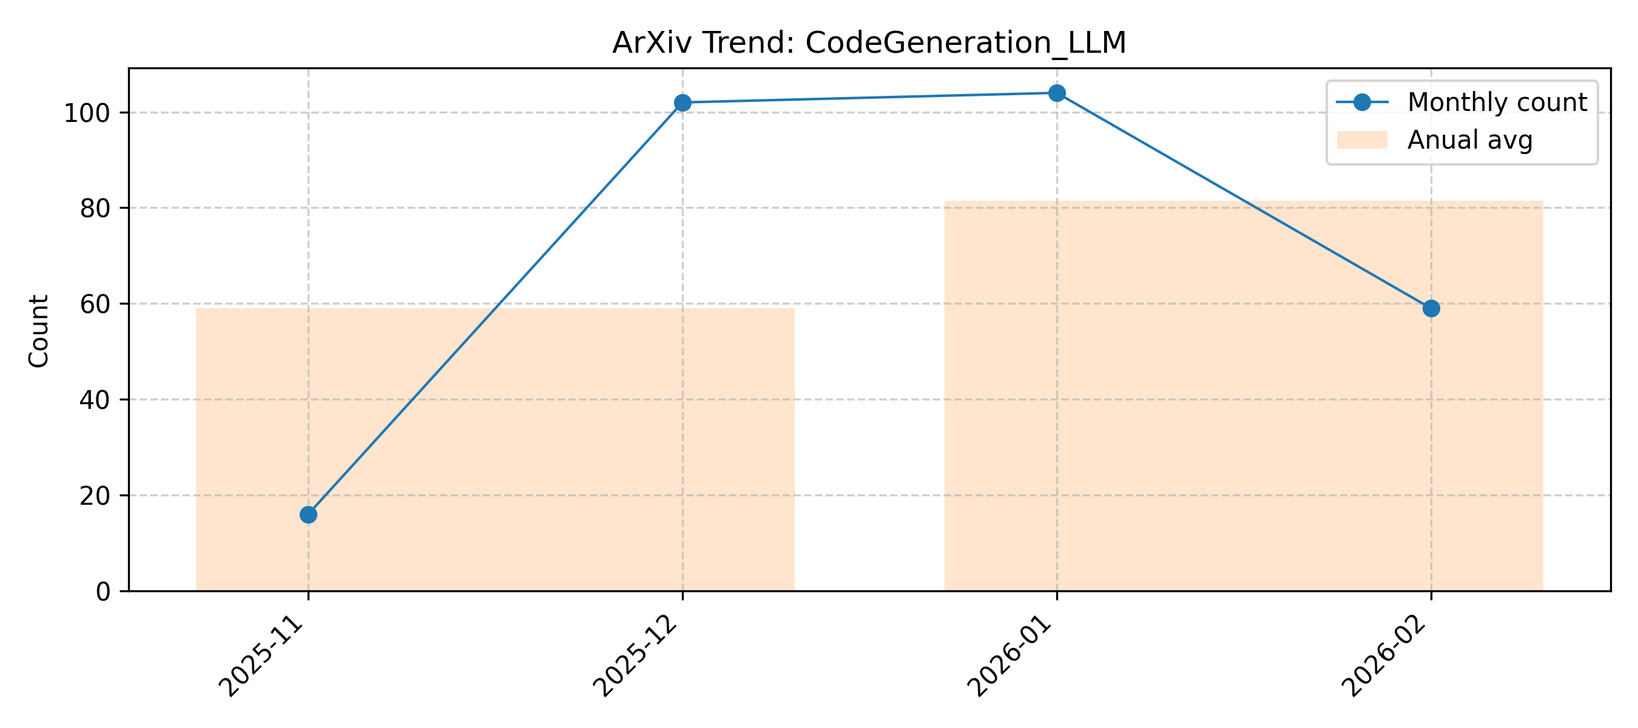
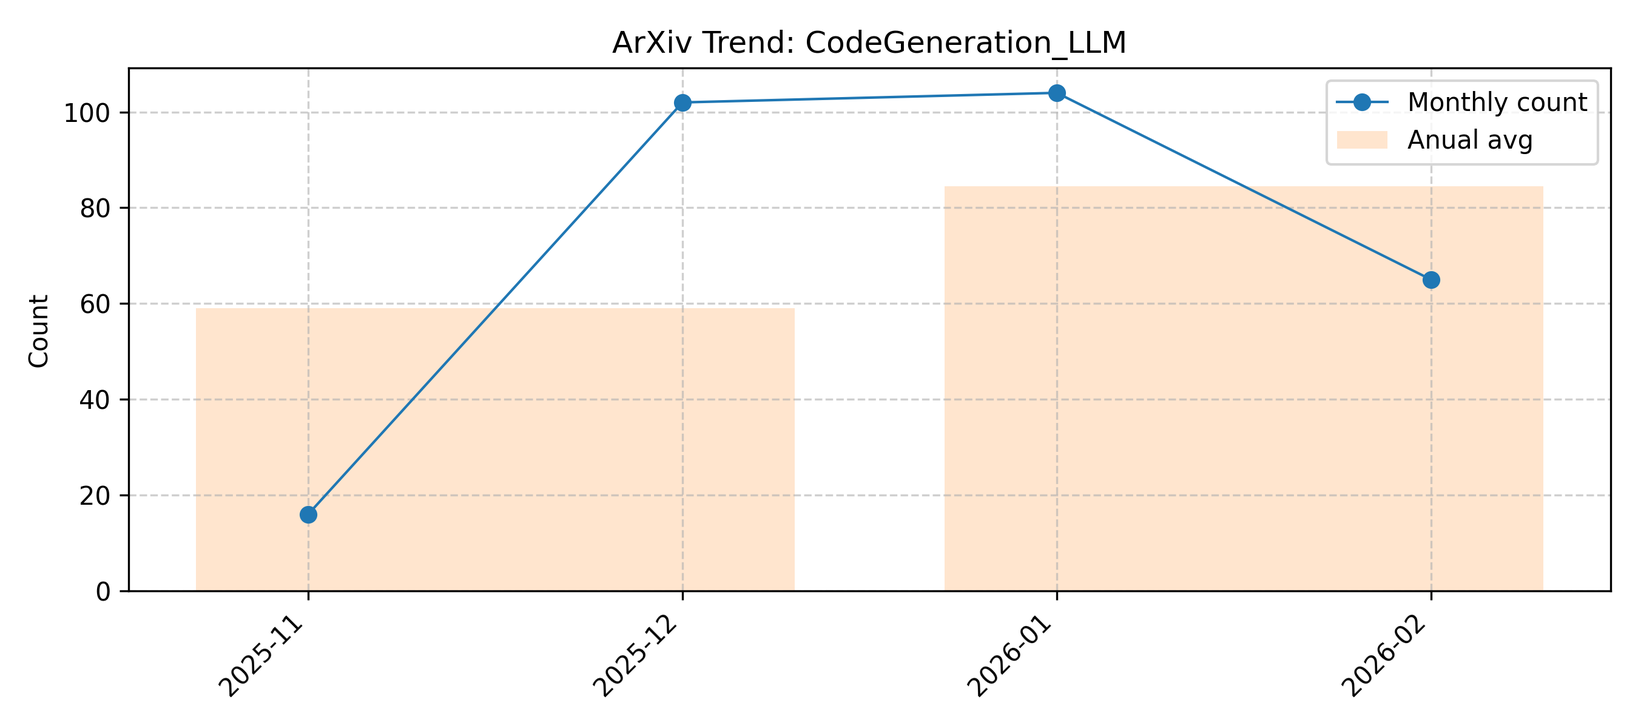
Auto update: 2026-02-14 08:00:01

Changed region(s): [[0.56, 0.2158, 0.9644, 0.4317], [0.6844, 0.185, 0.7156, 0.2158], [0.6533, 0.1542, 0.6844, 0.185]]

diff --git a/CodeGeneration_LLM.md b/CodeGeneration_LLM.md
@@ -1,6 +1,6 @@
 # CodeGeneration_LLM
 
-> Updated on 2026.02.13
+> Updated on 2026.02.14
 
 [🔙 Back to Index](README.md)
 
@@ -8,9 +8,15 @@
 
 | Date | Title | Categories | Abstract | PDF | Code |
 |:---|:---|:---|:---|:---|:---|
+|**2026-02-12**|**Improving HPC Code Generation Capability of LLMs via Online Reinforcement Learning with Real-Machine Benchmark Rewards**|cs.LG| <details><summary>Full Abstract</summary>Large language models (LLMs) have demonstrated strong code generation capabilities, yet the runtime performance of generated code is not guaranteed, and there have been few attempts to train LLMs using runtime performance as a reward in the HPC domain. We propose an online reinforcement learning approach that executes LLM-generated code on a supercomputer and directly feeds back the measured runtime performance (GFLOPS) as a reward. We further introduce a Staged Quality-Diversity (SQD) algorithm that progressively varies the permitted optimization techniques on a per-problem basis, enabling the model to learn code optimization from diverse perspectives. We build a distributed system connecting a GPU training cluster with a CPU benchmarking cluster, and train Qwen2.5 Coder 14B on a double-precision matrix multiplication task using Group Relative Policy Optimization (GRPO). Through two experiments, we show that reinforcement learning combining runtime performance feedback with staged optimization can improve the HPC code generation capability of LLMs.</details>|[2602.12049v1](http://arxiv.org/abs/2602.12049v1)| null|
+|**2026-02-12**|**Improving Code Generation via Small Language Model-as-a-judge**|cs.SE| <details><summary>Full Abstract</summary>Large language models (LLMs) have shown remarkable capabilities in automated code generation. While effective for mainstream languages, they may underperform on less common or domain-specific languages, prompting companies to develop in-house code generators. While open-source models can be trained for this, only LLMs with tens of billions of parameters match the performance of commercial tools, demanding costly training and deployment. Recent work proposed supporting code generation with smaller models (SLMs) by generating multiple candidate solutions and using another SLM to select the most likely correct one. The most recent work in this area is the one by Sun et al. [29] presenting RankEF, a T5 model trained to rank code solutions using both execution-based and non-execution-based information. However, Sun et al. do not assess the T5 ranker's classification accuracy, that is, how often it misjudges correct implementations as incorrect or vice versa, leaving open questions about the reliability of LMs as code correctness judges for other tasks (e.g., automated code review). Moreover, their experiments involve relatively old models, making it unclear the extent to which such a methodology would still help companies in cheaply training their own code generators with performance comparable to those of massive LLMs. We present a study addressing these limitations. We train several state-of-the-art SLMs as code correctness judges and assess their ability to discriminate between correct and wrong implementations. We show that modern SLMs outperform RankEF, even without exploiting execution-based information. When used as code rankers, they achieve higher performance gains than RankEF and perform competitively with LLMs 5-25x larger, at a fraction of the cost.</details>|[2602.11911v1](http://arxiv.org/abs/2602.11911v1)| null|
+|**2026-02-12**|**DICE: Diffusion Large Language Models Excel at Generating CUDA Kernels**|cs.LG, cs.CL| <details><summary>Full Abstract</summary>Diffusion large language models (dLLMs) have emerged as a compelling alternative to autoregressive (AR) LLMs, owing to their capacity for parallel token generation. This paradigm is particularly well-suited for code generation, where holistic structural planning and non-sequential refinement are critical. Despite this potential, tailoring dLLMs for CUDA kernel generation remains challenging, obstructed not only by the high specialization but also by the severe lack of high-quality training data. To address these challenges, we construct CuKe, an augmented supervised fine-tuning dataset optimized for high-performance CUDA kernels. On top of it, we propose a bi-phase curated reinforcement learning (BiC-RL) framework consisting of a CUDA kernel infilling stage and an end-to-end CUDA kernel generation stage. Leveraging this training framework, we introduce DICE, a series of diffusion large language models designed for CUDA kernel generation, spanning three parameter scales, 1.7B, 4B, and 8B. Extensive experiments on KernelBench demonstrate that DICE significantly outperforms both autoregressive and diffusion LLMs of comparable scale, establishing a new state-of-the-art for CUDA kernel generation.</details>|[2602.11715v1](http://arxiv.org/abs/2602.11715v1)| null|
+|**2026-02-12**|**LLM-Driven 3D Scene Generation of Agricultural Simulation Environments**|cs.CV, cs.AI, cs.RO| <details><summary>Full Abstract</summary>Procedural generation techniques in 3D rendering engines have revolutionized the creation of complex environments, reducing reliance on manual design. Recent approaches using Large Language Models (LLMs) for 3D scene generation show promise but often lack domain-specific reasoning, verification mechanisms, and modular design. These limitations lead to reduced control and poor scalability. This paper investigates the use of LLMs to generate agricultural synthetic simulation environments from natural language prompts, specifically to address the limitations of lacking domain-specific reasoning, verification mechanisms, and modular design. A modular multi-LLM pipeline was developed, integrating 3D asset retrieval, domain knowledge injection, and code generation for the Unreal rendering engine using its API. This results in a 3D environment with realistic planting layouts and environmental context, all based on the input prompt and the domain knowledge. To enhance accuracy and scalability, the system employs a hybrid strategy combining LLM optimization techniques such as few-shot prompting, Retrieval-Augmented Generation (RAG), finetuning, and validation. Unlike monolithic models, the modular architecture enables structured data handling, intermediate verification, and flexible expansion. The system was evaluated using structured prompts and semantic accuracy metrics. A user study assessed realism and familiarity against real-world images, while an expert comparison demonstrated significant time savings over manual scene design. The results confirm the effectiveness of multi-LLM pipelines in automating domain-specific 3D scene generation with improved reliability and precision. Future work will explore expanding the asset hierarchy, incorporating real-time generation, and adapting the pipeline to other simulation domains beyond agriculture.</details>|[2602.11706v1](http://arxiv.org/abs/2602.11706v1)| null|
+|**2026-02-12**|**Do Not Treat Code as Natural Language: Implications for Repository-Level Code Generation and Beyond**|cs.SE| <details><summary>Full Abstract</summary>Large language models for code (CodeLLMs) have demonstrated remarkable success in standalone code completion and generation, sometimes even surpassing human performance, yet their effectiveness diminishes in repository-level settings where cross-file dependencies and structural context are essential. Existing Retrieval-Augmented Generation (RAG) approaches often borrow strategies from NLP, relying on chunking-based indexing and similarity-based retrieval. Chunking results in the loss of coherence between code units and overlooks structural relationships, while similarity-driven methods frequently miss functionally relevant dependencies such as helper functions, classes, or global variables. To address these limitations, we present Hydra, a repository-level code generation framework that treats code as structured code rather than natural language. Our approach introduces (i) a structure-aware indexing strategy that represents repositories as hierarchical trees of functions, classes, and variables, preserving code structure and dependencies, (ii) a lightweight dependency-aware retriever (DAR) that explicitly identifies and retrieves the true dependencies required by a target function, and (iii) a hybrid retrieval mechanism that combines DAR with similarity-based retrieval to provide both essential building blocks and practical usage examples. Extensive experiments on the challenging DevEval and RepoExec benchmarks, both requiring function implementation from real-world repositories with complex large repository context, show that Hydra achieves state-of-the-art performance across open- and closed-source CodeLLMs. Notably, our method establishes a new state of the art in repository-level code generation, surpassing strongest baseline by over 5% in Pass@1 and even enabling smaller models to match or exceed the performance of much larger ones that rely on existing retrievers.</details>|[2602.11671v1](http://arxiv.org/abs/2602.11671v1)| null|
+|**2026-02-11**|**Improving the Robustness of Large Language Models for Code Tasks via Fine-tuning with Perturbed Data**|cs.SE| <details><summary>Full Abstract</summary>Context: In the fast-paced evolution of software development, Large Language Models (LLMs) have become indispensable tools for tasks such as code generation, completion, analysis, and bug fixing. Ensuring the robustness of these models against potential vulnerabilities from handling diverse inputs is critical, as variations in input can lead to incorrect or insecure code outputs.   Objective: This work aims to improve the robustness of LLMs for coding-related tasks against potential adversarial inputs. Specifically, we investigate how fine-tuning LLMs with perturbed datasets impacts their robustness against input perturbations.   Method: We systematically evaluated LLM robustness by fine-tuning models using datasets perturbed at character-level, word-level, and sentence-level, comparing results against base models and models fine-tuned on unperturbed datasets.   Results: Fine-tuning LLMs with perturbed datasets significantly improves model robustness (RD usually drops around 4\% - 6\%), especially for models with relatively weak robustness. However, this fine-tuning process typically results in a slight performance decrease (pass@1 usually drops around 1\% - 3\%) compared to fine-tuning with unperturbed datasets, although occasional performance improvements are observed.   Conclusion \& Implications: Fine-tuning LLMs for coding tasks with perturbed data effectively enhances their robustness at the cost of a minor performance reduction, emphasizing the importance of balancing the robustness and performance of LLMs for coding applications.</details>|[2602.11411v1](http://arxiv.org/abs/2602.11411v1)| null|
 |**2026-02-11**|**Fine-Tuning GPT-5 for GPU Kernel Generation**|cs.DC, cs.AI, cs.LG| <details><summary>Full Abstract</summary>Developing efficient GPU kernels is essential for scaling modern AI systems, yet it remains a complex task due to intricate hardware architectures and the need for specialized optimization expertise. Although Large Language Models (LLMs) demonstrate strong capabilities in general sequential code generation, they face significant challenges in GPU code generation because of the scarcity of high-quality labeled training data, compiler biases when generating synthetic solutions, and limited generalization across hardware generations. This precludes supervised fine-tuning (SFT) as a scalable methodology for improving current LLMs. In contrast, reinforcement learning (RL) offers a data-efficient and adaptive alternative but requires access to relevant tools, careful selection of training problems, and a robust evaluation environment. We present Makora's environment and tools for reinforcement learning finetuning of frontier models and report our results from fine-tuning GPT-5 for Triton code generation. In the single-attempt setting, our fine-tuned model improves kernel correctness from 43.7% to 77.0% (+33.3 percentage points) and increases the fraction of problems outperforming TorchInductor from 14.8% to 21.8% (+7 percentage points) compared to baseline GPT-5, while exceeding prior state-of-the-art models on KernelBench. When integrated into a full coding agent, it is able to solve up to 97.4% of problems in an expanded KernelBench suite, outperforming the PyTorch TorchInductor compiler on 72.9% of problems with a geometric mean speedup of 2.12x. Our work demonstrates that targeted post-training with reinforcement learning can unlock LLM capabilities in highly specialized technical domains where traditional supervised learning is limited by data availability, opening new pathways for AI-assisted accelerator programming.</details>|[2602.11000v1](http://arxiv.org/abs/2602.11000v1)| null|
 |**2026-02-11**|**SimuScene: Training and Benchmarking Code Generation to Simulate Physical Scenarios**|cs.LG| <details><summary>Full Abstract</summary>Large language models (LLMs) have been extensively studied for tasks like math competitions, complex coding, and scientific reasoning, yet their ability to accurately represent and simulate physical scenarios via code remains underexplored. We propose SimuScene, the first systematic study that trains and evaluates LLMs on simulating physical scenarios across five physics domains and 52 physical concepts. We build an automatic pipeline to collect data, with human verification to ensure quality. The final dataset contains 7,659 physical scenarios with 334 human-verified examples as the test set. We evaluated 10 contemporary LLMs and found that even the strongest model achieves only a 21.5% pass rate, demonstrating the difficulty of the task. Finally, we introduce a reinforcement learning pipeline with visual rewards that uses a vision-language model as a judge to train textual models. Experiments show that training with our data improves physical simulation via code while substantially enhancing general code generation performance.</details>|[2602.10840v1](http://arxiv.org/abs/2602.10840v1)| null|
-|**2026-02-11**|**SnapMLA: Efficient Long-Context MLA Decoding via Hardware-Aware FP8 Quantized Pipelining**|cs.LG, cs.CL| <details><summary>Full Abstract</summary>While FP8 attention has shown substantial promise in innovations like FlashAttention-3, its integration into the decoding phase of the DeepSeek Multi-head Latent Attention (MLA) architecture presents notable challenges. These challenges include numerical heterogeneity arising from the decoupling of positional embeddings, misalignment of quantization scales in FP8 PV GEMM, and the need for optimized system-level support. In this paper, we introduce SnapMLA, an FP8 MLA decoding framework optimized to improve long-context efficiency through the following hardware-aware algorithm-kernel co-optimization techniques: (i) RoPE-Aware Per-Token KV Quantization, where the RoPE part is maintained in high precision, motivated by our comprehensive analysis of the heterogeneous quantization sensitivity inherent to the MLA KV cache. Furthermore, per-token granularity is employed to align with the autoregressive decoding process and maintain quantization accuracy. (ii) Quantized PV Computation Pipeline Reconstruction, which resolves the misalignment of quantization scale in FP8 PV computation stemming from the shared KV structure of the MLA KV cache. (iii) End-to-End Dataflow Optimization, where we establish an efficient data read-and-write workflow using specialized kernels, ensuring efficient data flow and performance gains. Extensive experiments on state-of-the-art MLA LLMs show that SnapMLA achieves up to a 1.91x improvement in throughput, with negligible risk of performance degradation in challenging long-context tasks, including mathematical reasoning and code generation benchmarks. Code is available at https://github.com/meituan-longcat/SGLang-FluentLLM.</details>|[2602.10718v1](http://arxiv.org/abs/2602.10718v1)| null|
+|**2026-02-12**|**SnapMLA: Efficient Long-Context MLA Decoding via Hardware-Aware FP8 Quantized Pipelining**|cs.LG, cs.CL| <details><summary>Full Abstract</summary>While FP8 attention has shown substantial promise in innovations like FlashAttention-3, its integration into the decoding phase of the DeepSeek Multi-head Latent Attention (MLA) architecture presents notable challenges. These challenges include numerical heterogeneity arising from the decoupling of positional embeddings, misalignment of quantization scales in FP8 PV GEMM, and the need for optimized system-level support. In this paper, we introduce SnapMLA, an FP8 MLA decoding framework optimized to improve long-context efficiency through the following hardware-aware algorithm-kernel co-optimization techniques: (i) RoPE-Aware Per-Token KV Quantization, where the RoPE part is maintained in high precision, motivated by our comprehensive analysis of the heterogeneous quantization sensitivity inherent to the MLA KV cache. Furthermore, per-token granularity is employed to align with the autoregressive decoding process and maintain quantization accuracy. (ii) Quantized PV Computation Pipeline Reconstruction, which resolves the misalignment of quantization scale in FP8 PV computation stemming from the shared KV structure of the MLA KV cache. (iii) End-to-End Dataflow Optimization, where we establish an efficient data read-and-write workflow using specialized kernels, ensuring efficient data flow and performance gains. Extensive experiments on state-of-the-art MLA LLMs show that SnapMLA achieves up to a 1.91x improvement in throughput, with negligible risk of performance degradation in challenging long-context tasks, including mathematical reasoning and code generation benchmarks. Code is available at https://github.com/meituan-longcat/SGLang-FluentLLM.</details>|[2602.10718v2](http://arxiv.org/abs/2602.10718v2)| null|
 |**2026-02-11**|**SecCodePRM: A Process Reward Model for Code Security**|cs.CR, cs.SE| <details><summary>Full Abstract</summary>Large Language Models are rapidly becoming core components of modern software development workflows, yet ensuring code security remains challenging. Existing vulnerability detection pipelines either rely on static analyzers or use LLM/GNN-based detectors trained with coarse program-level supervision. Both families often require complete context, provide sparse end-of-completion feedback, and can degrade as code length grows, making them ill-suited for real-time, prefix-level assessment during interactive coding and streaming generation. We propose SecCodePRM, a security-oriented process reward model that assigns a context-aware, step-level security score along a code trajectory. To train the model, we derive step-level supervision labels from static analyzers and expert annotations, allowing the model to attend more precisely to fine-grained regions associated with inter-procedural vulnerabilities. SecCodePRM has three applications: full-code vulnerability detection (VD), partial-code VD, and secure code generation (CG). For VD, SecCodePRM uses risk-sensitive aggregation that emphasizes high-risk steps; for CG, SecCodePRM supports inference-time scaling by ranking candidate continuations and favoring higher cumulative reward. This design yields dense, real-time feedback that scales to long-horizon generation. Empirically, SecCodePRM outperforms prior approaches in all three settings, while preserving code functional correctness, suggesting improved security without a safety-utility tradeoff.</details>|[2602.10418v1](http://arxiv.org/abs/2602.10418v1)| null|
 |**2026-02-10**|**ACE-RTL: When Agentic Context Evolution Meets RTL-Specialized LLMs**|cs.AR, cs.LG| <details><summary>Full Abstract</summary>Recent advances in large language models (LLMs) have sparked growing interest in applying them to hardware design automation, particularly for accurate RTL code generation. Prior efforts follow two largely independent paths: (i) training domain-adapted RTL models to internalize hardware semantics, (ii) developing agentic systems that leverage frontier generic LLMs guided by simulation feedback. However, these two paths exhibit complementary strengths and weaknesses. In this work, we present ACE-RTL that unifies both directions through Agentic Context Evolution (ACE). ACE-RTL integrates an RTL-specialized LLM, trained on a large-scale dataset of 1.7 million RTL samples, with a frontier reasoning LLM through three synergistic components: the generator, reflector, and coordinator. These components iteratively refine RTL code toward functional correctness. We further introduce a parallel scaling strategy that significantly reduces the number of iterations required to reach correct solutions. On the Comprehensive Verilog Design Problems (CVDP) benchmark, ACE-RTL achieves up to a 44.87% pass rate improvement over 14 competitive baselines while requiring only four iterations on average.</details>|[2602.10218v1](http://arxiv.org/abs/2602.10218v1)| null|
 |**2026-02-10**|**EvoCodeBench: A Human-Performance Benchmark for Self-Evolving LLM-Driven Coding Systems**|cs.SE, cs.AI| <details><summary>Full Abstract</summary>As large language models (LLMs) continue to advance in programming tasks, LLM-driven coding systems have evolved from one-shot code generation into complex systems capable of iterative improvement during inference. However, existing code benchmarks primarily emphasize static correctness and implicitly assume fixed model capability during inference. As a result, they do not capture inference-time self-evolution, such as whether accuracy and efficiency improve as an agent iteratively refines its solutions. They also provide limited accounting of resource costs and rarely calibrate model performance against that of human programmers. Moreover, many benchmarks are dominated by high-resource languages, leaving cross-language robustness and long-tail language stability underexplored. Therefore, we present EvoCodeBench, a benchmark for evaluating self-evolving LLM-driven coding systems across programming languages with direct comparison to human performance. EvoCodeBench tracks performance dynamics, measuring solution correctness alongside efficiency metrics such as solving time, memory consumption, and improvement algorithmic design over repeated problem-solving attempts. To ground evaluation in a human-centered reference frame, we directly compare model performance with that of human programmers on the same tasks, enabling relative performance assessment within the human ability distribution. Furthermore, EvoCodeBench supports multiple programming languages, enabling systematic cross-language and long-tail stability analyses under a unified protocol. Our results demonstrate that self-evolving systems exhibit measurable gains in efficiency over time, and that human-relative and multi-language analyses provide insights unavailable through accuracy alone. EvoCodeBench establishes a foundation for evaluating coding intelligence in evolving LLM-driven systems.</details>|[2602.10171v1](http://arxiv.org/abs/2602.10171v1)| null|
@@ -29,7 +35,7 @@
 |**2026-02-06**|**CodeCircuit: Toward Inferring LLM-Generated Code Correctness via Attribution Graphs**|cs.SE, cs.AI| <details><summary>Full Abstract</summary>Current paradigms for code verification rely heavily on external mechanisms-such as execution-based unit tests or auxiliary LLM judges-which are often labor-intensive or limited by the judging model's own capabilities. This raises a fundamental, yet unexplored question: Can an LLM's functional correctness be assessed purely from its internal computational structure? Our primary objective is to investigate whether the model's neural dynamics encode internally decodable signals that are predictive of logical validity during code generation. Inspired by mechanistic interpretability, we propose to treat code verification as a mechanistic diagnostic task, mapping the model's explicit algorithmic trajectory into line-level attribution graphs. By decomposing complex residual flows, we aim to identify the structural signatures that distinguish sound reasoning from logical failure within the model's internal circuits. Analysis across Python, C++, and Java confirms that intrinsic correctness signals are robust across diverse syntaxes. Topological features from these internal graphs predict correctness more reliably than surface heuristics and enable targeted causal interventions to fix erroneous logic. These findings establish internal introspection as a decodable property for verifying generated code. Our code is at https:// github.com/bruno686/CodeCircuit.</details>|[2602.07080v1](http://arxiv.org/abs/2602.07080v1)| null|
 |**2026-02-03**|**ST-Raptor: An Agentic System for Semi-Structured Table QA**|cs.AI| <details><summary>Full Abstract</summary>Semi-structured table question answering (QA) is a challenging task that requires (1) precise extraction of cell contents and positions and (2) accurate recovery of key implicit logical structures, hierarchical relationships, and semantic associations encoded in table layouts. In practice, such tables are often interpreted manually by human experts, which is labor-intensive and time-consuming. However, automating this process remains difficult. Existing Text-to-SQL methods typically require converting semi-structured tables into structured formats, inevitably leading to information loss, while approaches like Text-to-Code and multimodal LLM-based QA struggle with complex layouts and often yield inaccurate answers. To address these limitations, we present ST-Raptor, an agentic system for semi-structured table QA. ST-Raptor offers an interactive analysis environment that combines visual editing, tree-based structural modeling, and agent-driven query resolution to support accurate and user-friendly table understanding. Experimental results on both benchmark and real-world datasets demonstrate that ST-Raptor outperforms existing methods in both accuracy and usability. The code is available at https://github.com/weAIDB/ST-Raptor, and a demonstration video is available at https://youtu.be/9GDR-94Cau4.</details>|[2602.07034v1](http://arxiv.org/abs/2602.07034v1)| null|
 |**2026-02-03**|**LLM-FSM: Scaling Large Language Models for Finite-State Reasoning in RTL Code Generation**|cs.AI, cs.AR, cs.CL| <details><summary>Full Abstract</summary>Finite-state reasoning, the ability to understand and implement state-dependent behavior, is central to hardware design. In this paper, we present LLM-FSM, a benchmark that evaluates how well large language models (LLMs) can recover finite-state machine (FSM) behavior from natural-language specifications and translate it into correct register transfer-level (RTL) implementations. Unlike prior specification-to-RTL benchmarks that rely on manually constructed examples, LLM-FSM is built through a fully automated pipeline. LLM-FSM first constructs FSM with configurable state counts and constrained transition structures. It then prompts LLMs to express each FSM in a structured YAML format with an application context, and to further convert that YAML into a natural-language (NL) specification. From the same YAML, our pipeline synthesizes the reference RTL and testbench in a correct-by-construction manner. All 1,000 problems are verified using LLM-based and SAT-solver-based checks, with human review on a subset. Our experiments show that even the strongest LLMs exhibit sharply declining accuracy as FSM complexity increases. We further demonstrate that training-time scaling via supervised fine-tuning (SFT) generalizes effectively to out-of-distribution (OOD) tasks, while increasing test-time compute improves reasoning reliability. Finally, LLM-FSM remains extensible by allowing its FSM complexity to scale with future model capabilities.</details>|[2602.07032v1](http://arxiv.org/abs/2602.07032v1)| null|
-|**2026-02-06**|**Evolutionary Generation of Multi-Agent Systems**|cs.LG| <details><summary>Full Abstract</summary>Large language model (LLM)-based multi-agent systems (MAS) show strong promise for complex reasoning, planning, and tool-augmented tasks, but designing effective MAS architectures remains labor-intensive, brittle, and hard to generalize. Existing automatic MAS generation methods either rely on code generation, which often leads to executability and robustness failures, or impose rigid architectural templates that limit expressiveness and adaptability. We propose Evolutionary Generation of Multi-Agent Systems (EvoMAS), which formulates MAS generation as structured configuration generation. EvoMAS performs evolutionary generation in configuration space. Specifically, EvoMAS selects initial configurations from a pool, applies feedback-conditioned mutation and crossover guided by execution traces, and iteratively refines both the candidate pool and an experience memory. We evaluate EvoMAS on diverse benchmarks, including BBEH, SWE-Bench, and WorkBench, covering reasoning, software engineering, and tool-use tasks. EvoMAS consistently improves task performance over both human-designed MAS and prior automatic MAS generation methods, while producing generated systems with higher executability and runtime robustness. EvoMAS outperforms the agent evolution method EvoAgent by +10.5 points on BBEH reasoning and +7.1 points on WorkBench. With Claude-4.5-Sonnet, EvoMAS also reaches 79.1% on SWE-Bench-Verified, matching the top of the leaderboard.</details>|[2602.06511v1](http://arxiv.org/abs/2602.06511v1)| null|
+|**2026-02-11**|**Evolutionary Generation of Multi-Agent Systems**|cs.LG| <details><summary>Full Abstract</summary>Large language model (LLM)-based multi-agent systems (MAS) show strong promise for complex reasoning, planning, and tool-augmented tasks, but designing effective MAS architectures remains labor-intensive, brittle, and hard to generalize. Existing automatic MAS generation methods either rely on code generation, which often leads to executability and robustness failures, or impose rigid architectural templates that limit expressiveness and adaptability. We propose Evolutionary Generation of Multi-Agent Systems (EvoMAS), which formulates MAS generation as structured configuration generation. EvoMAS performs evolutionary generation in configuration space. Specifically, EvoMAS selects initial configurations from a pool, applies feedback-conditioned mutation and crossover guided by execution traces, and iteratively refines both the candidate pool and an experience memory. We evaluate EvoMAS on diverse benchmarks, including BBEH, SWE-Bench, and WorkBench, covering reasoning, software engineering, and tool-use tasks. EvoMAS consistently improves task performance over both human-designed MAS and prior automatic MAS generation methods, while producing generated systems with higher executability and runtime robustness. EvoMAS outperforms the agent evolution method EvoAgent by +10.5 points on BBEH reasoning and +7.1 points on WorkBench. With Claude-4.5-Sonnet, EvoMAS also reaches 79.1% on SWE-Bench-Verified, matching the top of the leaderboard.</details>|[2602.06511v2](http://arxiv.org/abs/2602.06511v2)| null|
 |**2026-02-05**|**DyTopo: Dynamic Topology Routing for Multi-Agent Reasoning via Semantic Matching**|cs.AI| <details><summary>Full Abstract</summary>Multi-agent systems built from prompted large language models can improve multi-round reasoning, yet most existing pipelines rely on fixed, trajectory-wide communication patterns that are poorly matched to the stage-dependent needs of iterative problem solving. We introduce DyTopo, a manager-guided multi-agent framework that reconstructs a sparse directed communication graph at each round. Conditioned on the manager's round goal, each agent outputs lightweight natural-language query (need) and \key (offer) descriptors; DyTopo embeds these descriptors and performs semantic matching, routing private messages only along the induced edges. Across code generation and mathematical reasoning benchmarks and four LLM backbones, DyTopo consistently outperforms over the strongest baseline (avg. +6.2). Beyond accuracy, DyTopo yields an interpretable coordination trace via the evolving graphs, enabling qualitative inspection of how communication pathways reconfigure across rounds.</details>|[2602.06039v1](http://arxiv.org/abs/2602.06039v1)| null|
 |**2026-02-05**|**Towards Green AI: Decoding the Energy of LLM Inference in Software Development**|cs.SE, cs.AI| <details><summary>Full Abstract</summary>Context: AI-assisted tools are increasingly integrated into software development workflows, but their reliance on large language models (LLMs) introduces substantial computational and energy costs. Understanding and reducing the energy footprint of LLM inference is therefore essential for sustainable software development. Objective: In this study, we conduct a phase-level analysis of LLM inference energy consumption, distinguishing between the (1) prefill, where the model processes the input and builds internal representations, and (2) decoding, where output tokens are generated using the stored state. Method: We investigate six 6B-7B and four 3B-4B transformer-based models, evaluating them on code-centric benchmarks HumanEval for code generation and LongBench for code understanding. Results: Our findings show that, within both parameter groups, models exhibit distinct energy patterns across phases. Furthermore, we observed that increases in prefill cost amplify the energy cost per token during decoding, with amplifications ranging from 1.3% to 51.8% depending on the model. Lastly, three out of ten models demonstrate babbling behavior, adding excessive content to the output that unnecessarily inflates energy consumption. We implemented babbling suppression for code generation, achieving energy savings ranging from 44% to 89% without affecting generation accuracy. Conclusion: These findings show that prefill costs influence decoding, which dominates energy consumption, and that babbling suppression can yield up to 89% energy savings. Reducing inference energy therefore requires both mitigating babbling behavior and limiting impact of prefill on decoding.</details>|[2602.05712v1](http://arxiv.org/abs/2602.05712v1)| null|
 |**2026-02-05**|**ALIVE: Awakening LLM Reasoning via Adversarial Learning and Instructive Verbal Evaluation**|cs.AI| <details><summary>Full Abstract</summary>The quest for expert-level reasoning in Large Language Models (LLMs) has been hampered by a persistent \textit{reward bottleneck}: traditional reinforcement learning (RL) relies on scalar rewards that are \textbf{costly} to scale, \textbf{brittle} across domains, and \textbf{blind} to the underlying logic of a solution. This reliance on external, impoverished signals prevents models from developing a deep, self-contained understanding of reasoning principles. We introduce \textbf{ALIVE} (\emph{Adversarial Learning with Instructive Verbal Evaluation}), a hands-free alignment framework that moves beyond scalar reward optimization toward intrinsic reasoning acquisition. Grounded in the principle of \emph{Cognitive Synergy}, ALIVE unifies problem posing, solving, and judging within a single policy model to internalize the logic of correctness. By coupling adversarial learning with instructive verbal feedback, ALIVE enables models to internalize evaluative criteria directly from raw corpora, effectively transforming external critiques into an endogenous reasoning faculty. Empirical evaluations across mathematical reasoning, code generation, and general logical inference benchmarks demonstrate that ALIVE consistently mitigates reward signal limitations. With identical data and compute, it achieves accuracy gains, markedly improved cross-domain generalization, and higher self-correction rates. These results indicate that the reasoning trinity fosters a self-sustaining trajectory of capability growth, positioning ALIVE as a scalable foundation for general-purpose reasoning alignment without human-in-the-loop supervision.</details>|[2602.05472v1](http://arxiv.org/abs/2602.05472v1)| null|

diff --git a/MA-CoEvo.md b/MA-CoEvo.md
@@ -1,6 +1,6 @@
 # MA-CoEvo
 
-> Updated on 2026.02.13
+> Updated on 2026.02.14
 
 [🔙 Back to Index](README.md)
 
@@ -8,6 +8,9 @@
 
 | Date | Title | Categories | Abstract | PDF | Code |
 |:---|:---|:---|:---|:---|:---|
+|**2026-02-12**|**Sci-CoE: Co-evolving Scientific Reasoning LLMs via Geometric Consensus with Sparse Supervision**|cs.AI| <details><summary>Full Abstract</summary>Large language models (LLMs) have demonstrated exceptional reasoning capabilities, and co-evolving paradigms have shown promising results in domains such as code and math. However, in scientific reasoning tasks, these models remain fragile due to unreliable solution evaluation and limited diversity in verification strategies. In this work, we propose Sci-CoE, a two-stage scientific co-evolving framework that enables models to self-evolve as both solver and verifier through a transition from sparse supervision to unsupervised learning. In the first stage, the model uses a small set of annotated data to establish fundamental correctness judgment anchors for the Verifier. In the second stage, we introduce a geometric reward mechanism that jointly considers consensus, reliability, and diversity, driving large-scale self-iteration on unlabeled data. Experiments on several general scientific benchmarks demonstrate that Sci-CoE enhances complex reasoning capabilities and exhibits strong scalability, facilitating the construction of more robust and diverse evaluation systems. Codes are available at https://github.com/InternScience/Sci-CoE.</details>|[2602.12164v1](http://arxiv.org/abs/2602.12164v1)| null|
+|**2026-02-12**|**Leveraging LLMs to support co-evolution between definitions and instances of textual DSLs: A Systematic Evaluation**|cs.SE, cs.AI| <details><summary>Full Abstract</summary>Software languages evolve over time for reasons such as feature additions. When grammars evolve, textual instances that originally conformed to them may become outdated. While model-driven engineering provides many techniques for co-evolving models with metamodel changes, these approaches are not designed for textual DSLs and may lose human-relevant information such as layout and comments. This study systematically evaluates the potential of large language models (LLMs) for co-evolving grammars and instances of textual DSLs. Using Claude Sonnet 4.5 and GPT-5.2 across ten case languages with ten runs each, we assess both correctness and preservation of human-oriented information. Results show strong performance on small-scale cases ($\geq$94% precision and recall for instances requiring fewer than 20 modified lines), but performance degraded with scale: Claude maintains 85% recall at 40 lines, while GPT fails on the largest instances. Response time increases substantially with instance size, and grammar evolution complexity and deletion granularity affect performance more than change type. These findings clarify when LLM-based co-evolution is effective and where current limitations remain.</details>|[2602.11904v1](http://arxiv.org/abs/2602.11904v1)| null|
+|**2026-02-11**|**Active Zero: Self-Evolving Vision-Language Models through Active Environment Exploration**|cs.CV, cs.LG| <details><summary>Full Abstract</summary>Self-play has enabled large language models to autonomously improve through self-generated challenges. However, existing self-play methods for vision-language models rely on passive interaction with static image collections, resulting in strong dependence on initial datasets and inefficient learning. Without the ability to actively seek visual data tailored to their evolving capabilities, agents waste computational effort on samples that are either trivial or beyond their current skill level. To address these limitations, we propose Active-Zero, a framework that shifts from passive interaction to active exploration of visual environments. Active-Zero employs three co-evolving agents: a Searcher that retrieves images from open-world repositories based on the model's capability frontier, a Questioner that synthesizes calibrated reasoning tasks, and a Solver refined through accuracy rewards. This closed loop enables self-scaffolding auto-curricula where the model autonomously constructs its learning trajectory. On Qwen2.5-VL-7B-Instruct across 12 benchmarks, Active-Zero achieves 53.97 average accuracy on reasoning tasks (5.7% improvement) and 59.77 on general understanding (3.9% improvement), consistently outperforming existing self-play baselines. These results highlight active exploration as a key ingredient for scalable and adaptive self-evolving vision-language systems.</details>|[2602.11241v1](http://arxiv.org/abs/2602.11241v1)| null|
 |**2026-02-09**|**Data Science and Technology Towards AGI Part I: Tiered Data Management**|cs.AI, cs.CL| <details><summary>Full Abstract</summary>The development of artificial intelligence can be viewed as an evolution of data-driven learning paradigms, with successive shifts in data organization and utilization continuously driving advances in model capability. Current LLM research is dominated by a paradigm that relies heavily on unidirectional scaling of data size, increasingly encountering bottlenecks in data availability, acquisition cost, and training efficiency. In this work, we argue that the development of AGI is entering a new phase of data-model co-evolution, in which models actively guide data management while high-quality data, in turn, amplifies model capabilities. To implement this vision, we propose a tiered data management framework, designed to support the full LLM training lifecycle across heterogeneous learning objectives and cost constraints. Specifically, we introduce an L0-L4 tiered data management framework, ranging from raw uncurated resources to organized and verifiable knowledge. Importantly, LLMs are fully used in data management processes, such as quality scoring and content editing, to refine data across tiers. Each tier is characterized by distinct data properties, management strategies, and training roles, enabling data to be strategically allocated across LLM training stages, including pre-training, mid-training, and alignment. The framework balances data quality, acquisition cost, and marginal training benefit, providing a systematic approach to scalable and sustainable data management. We validate the effectiveness of the proposed framework through empirical studies, in which tiered datasets are constructed from raw corpora and used across multiple training phases. Experimental results demonstrate that tier-aware data utilization significantly improves training efficiency and model performance. To facilitate further research, we release our tiered datasets and processing tools to the community.</details>|[2602.09003v1](http://arxiv.org/abs/2602.09003v1)| null|
 |**2026-02-09**|**G-LNS: Generative Large Neighborhood Search for LLM-Based Automatic Heuristic Design**|cs.AI| <details><summary>Full Abstract</summary>While Large Language Models (LLMs) have recently shown promise in Automated Heuristic Design (AHD), existing approaches typically formulate AHD around constructive priority rules or parameterized local search guidance, thereby restricting the search space to fixed heuristic forms. Such designs offer limited capacity for structural exploration, making it difficult to escape deep local optima in complex Combinatorial Optimization Problems (COPs). In this work, we propose G-LNS, a generative evolutionary framework that extends LLM-based AHD to the automated design of Large Neighborhood Search (LNS) operators. Unlike prior methods that evolve heuristics in isolation, G-LNS leverages LLMs to co-evolve tightly coupled pairs of destroy and repair operators. A cooperative evaluation mechanism explicitly captures their interaction, enabling the discovery of complementary operator logic that jointly performs effective structural disruption and reconstruction. Extensive experiments on challenging COP benchmarks, such as Traveling Salesman Problems (TSP) and Capacitated Vehicle Routing Problems (CVRP), demonstrate that G-LNS significantly outperforms LLM-based AHD methods as well as strong classical solvers. The discovered heuristics not only achieve near-optimal solutions with reduced computational budgets but also exhibit robust generalization across diverse and unseen instance distributions.</details>|[2602.08253v1](http://arxiv.org/abs/2602.08253v1)| null|
 |**2026-02-09**|**SkillRL: Evolving Agents via Recursive Skill-Augmented Reinforcement Learning**|cs.LG| <details><summary>Full Abstract</summary>Large Language Model (LLM) agents have shown stunning results in complex tasks, yet they often operate in isolation, failing to learn from past experiences. Existing memory-based methods primarily store raw trajectories, which are often redundant and noise-heavy. This prevents agents from extracting high-level, reusable behavioral patterns that are essential for generalization. In this paper, we propose SkillRL, a framework that bridges the gap between raw experience and policy improvement through automatic skill discovery and recursive evolution. Our approach introduces an experience-based distillation mechanism to build a hierarchical skill library SkillBank, an adaptive retrieval strategy for general and task-specific heuristics, and a recursive evolution mechanism that allows the skill library to co-evolve with the agent's policy during reinforcement learning. These innovations significantly reduce the token footprint while enhancing reasoning utility. Experimental results on ALFWorld, WebShop and seven search-augmented tasks demonstrate that SkillRL achieves state-of-the-art performance, outperforming strong baselines over 15.3% and maintaining robustness as task complexity increases. Code is available at this https://github.com/aiming-lab/SkillRL.</details>|[2602.08234v1](http://arxiv.org/abs/2602.08234v1)| null|

diff --git a/README.md b/README.md
@@ -1,6 +1,6 @@
 # Daily ArXiv Papers
 
-> Last Updated: 2026.02.13
+> Last Updated: 2026.02.14
 
 This project provides daily updates on ArXiv papers regarding Multi-Agent LLMs, GUI Testing, and Code Generation. It builds upon the work of @bansky-cl, with refinements by @bbc00710086, and is currently deployed and maintained by zzz.
 

diff --git a/GUI_LLM_RL_MA.md b/GUI_LLM_RL_MA.md
@@ -1,6 +1,6 @@
 # GUI_LLM_RL_MA
 
-> Updated on 2026.02.13
+> Updated on 2026.02.14
 
 [🔙 Back to Index](README.md)
 

diff --git a/MA-CoEvo-RL.md b/MA-CoEvo-RL.md
@@ -1,6 +1,6 @@
 # MA-CoEvo-RL
 
-> Updated on 2026.02.13
+> Updated on 2026.02.14
 
 [🔙 Back to Index](README.md)
 
